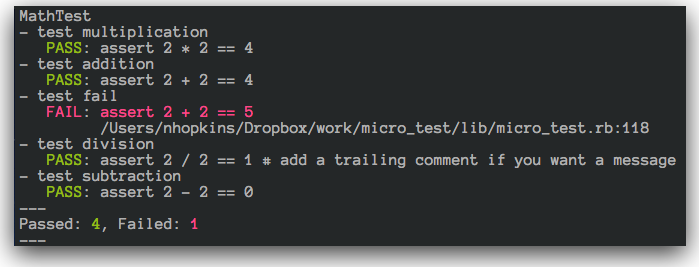
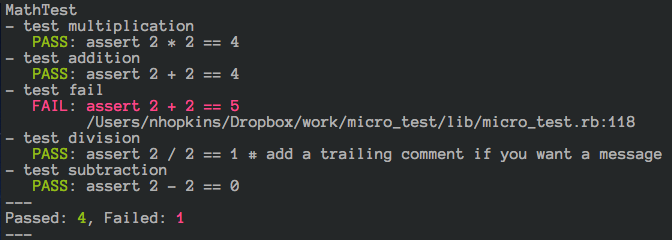
Added the output image.

Changed region(s): [[0.0, 0.0, 1.0, 1.0]]

diff --git a/index.md b/index.md
@@ -73,6 +73,8 @@ Run the tests.
 $ mt /example/test
 {% endhighlight %}
 
+![MicroTest output](http://hopsoft.github.com/micro_test/images/micro_test.png)
+
 ---
 
 {% include forkme.html %}
